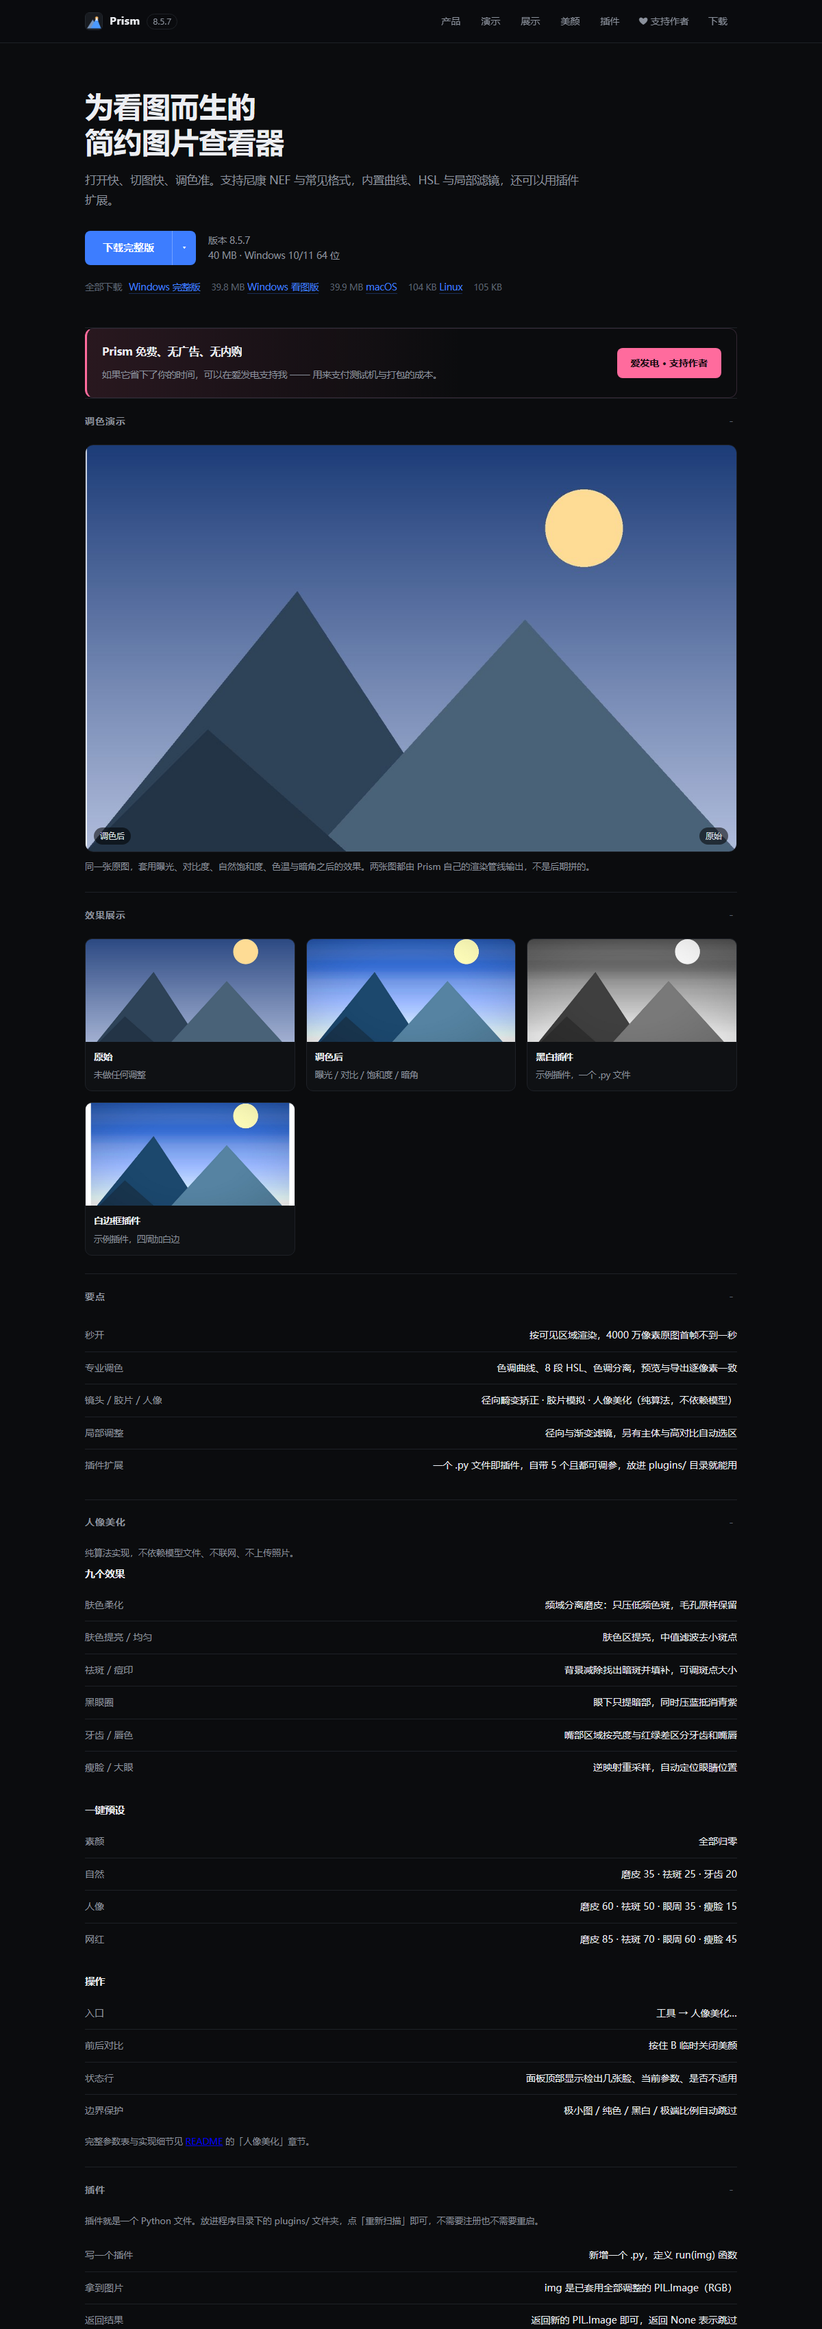
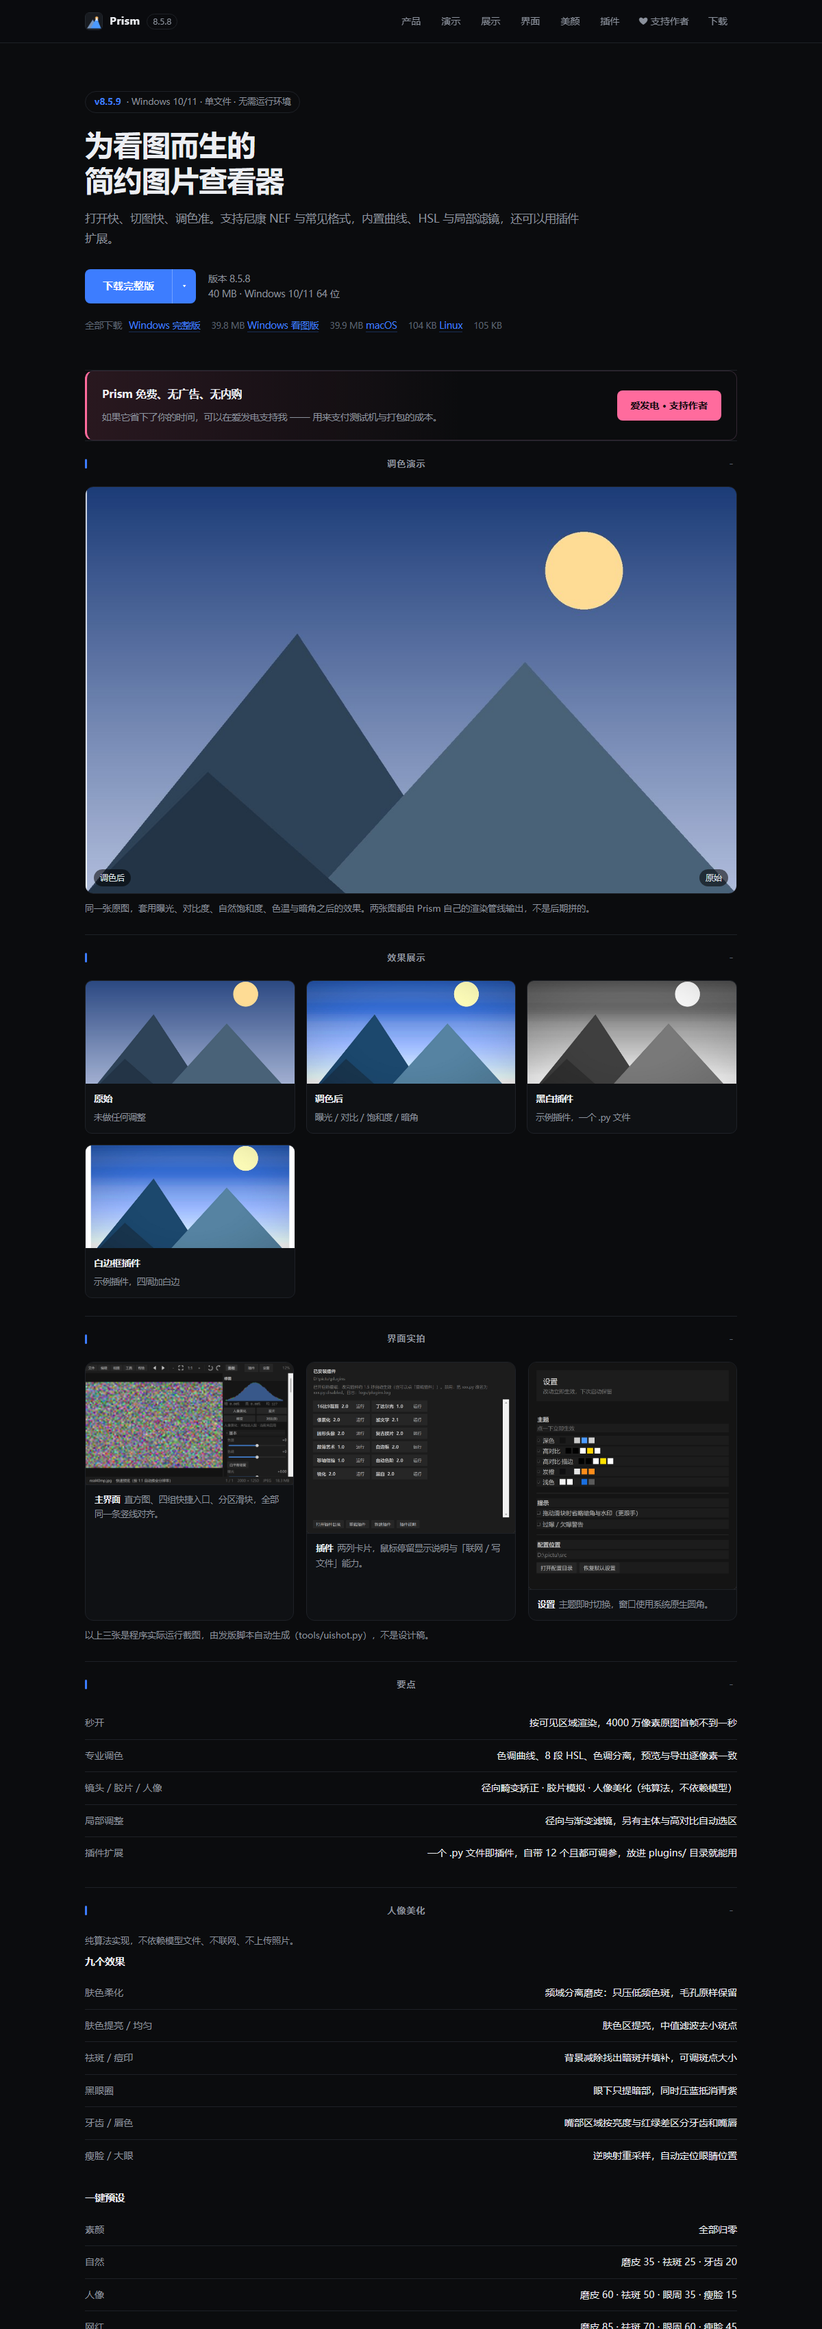
release 8.5.9: 网页层次+界面实拍区块; 外观差异留档 uishot-log.md

diff --git a/docs/index.html b/docs/index.html
@@ -36,15 +36,22 @@
   .sub2 .lvl3{position:absolute;left:100%;top:-6px;min-width:170px;background:#0f1114;border:1px solid var(--line);border-radius:10px;padding:6px;opacity:0;visibility:hidden;transition:.14s}
   .sub2:hover .lvl3{opacity:1;visibility:visible}
   /* ---------- 首屏 ---------- */
-  header{padding:66px 0 46px}
+  .eyebrow{display:inline-flex;align-items:center;gap:8px;border:1px solid var(--line);
+    border-radius:20px;padding:4px 13px;font-size:12.5px;color:var(--dim);margin-bottom:20px;
+    letter-spacing:.2px}
+  .eyebrow b{color:var(--accent);font-weight:600}
+  header{padding:70px 0 52px}
   h1{font-size:42px;line-height:1.24;font-weight:600;letter-spacing:-.5px}
   .lead{color:var(--dim);font-size:16.5px;margin-top:16px;max-width:44em}
   .cta{margin-top:30px;display:flex;align-items:center;gap:18px;flex-wrap:wrap}
   .btn{display:inline-block;background:var(--accent);color:#fff;text-decoration:none;font-weight:600;font-size:15px;padding:12px 26px;border-radius:8px}
   .btn:hover{background:#558cff}
   .meta{color:var(--dim);font-size:13.5px;line-height:1.6}
-  section{padding:46px 0;border-top:1px solid var(--line)}
-  h2{font-size:14px;font-weight:600;letter-spacing:.9px;color:var(--dim);text-transform:uppercase;margin-bottom:24px}
+  section{padding:58px 0;border-top:1px solid var(--line)}
+  section>*{max-width:100%}
+  /* 章节标题：左侧强调条（用 border 而不是 flex，避免标题被居中） */
+  h2{border-left:3px solid var(--accent);padding-left:11px;line-height:1.15}
+  h2{font-size:13px;font-weight:600;letter-spacing:1.1px;color:var(--dim);text-transform:uppercase;margin-bottom:26px}
   /* ---------- 动态演示：自动前后对比 ---------- */
   .demo{position:relative;border:1px solid var(--line);border-radius:12px;overflow:hidden;background:#000;aspect-ratio:8/5}
   .demo img{position:absolute;inset:0;width:100%;height:100%;object-fit:cover}
@@ -69,6 +76,12 @@
   tr:last-child td{border:0}
   td:last-child{color:var(--fg);text-align:right}
   code{font-family:Consolas,"SF Mono",monospace;font-size:12.5px;color:var(--code);word-break:break-all}
+  /* ---------- 界面实拍 ---------- */
+  .ui{display:grid;grid-template-columns:repeat(auto-fit,minmax(280px,1fr));gap:18px}
+  .ui figure{border:1px solid var(--line);border-radius:12px;overflow:hidden;background:#0f1114}
+  .ui img{display:block;width:100%;height:auto}
+  .ui figcaption{padding:11px 13px;font-size:12.5px;color:var(--dim);border-top:1px solid var(--line)}
+  .ui figcaption b{color:var(--fg);font-weight:600;margin-right:6px}
   /* ---------- 支持作者 ---------- */
   .support{padding:34px 0;border-top:1px solid var(--line)}
   .sup-card{display:flex;align-items:center;gap:22px;flex-wrap:wrap;justify-content:space-between;
@@ -156,7 +169,7 @@
 </head>
 <body>
 <div class="top"><div class="topin">
-  <a class="brand" href="./"><img src="Prism.png" alt=""><b>Prism</b><i>8.5.8</i></a>
+  <a class="brand" href="./"><img src="Prism.png" alt=""><b>Prism</b><i>8.5.9</i></a>
   <nav class="menu">
     <div class="mi"><a href="#features">产品</a>
       <div class="sub">
@@ -177,6 +190,7 @@
     </div>
     <div class="mi"><a href="#demo">演示</a></div>
     <div class="mi"><a href="#gallery">展示</a></div>
+    <div class="mi"><a href="#ui">界面</a></div>
     <div class="mi"><a href="#beauty">美颜</a></div>
     <div class="mi"><a href="#plugins">插件</a>
       <div class="sub">
@@ -189,11 +203,11 @@
     <div class="mi"><a href="#download">下载</a>
       <div class="sub">
         <span class="gh">Windows</span>
-        <a href="https://github.com/11ly322/Prism/releases/download/v8.5.8/Prism-Setup-8.5.8.exe" download><span style="display:inline-block;margin-left:6px;padding:1px 6px;border-radius:6px;font-size:11px;background:#2f7d32;color:#fff">完整支持</span>完整版 <i>39.9 MB</i></a>
-        <a href="https://github.com/11ly322/Prism/releases/download/v8.5.8/Prism-Viewer-Setup-8.5.8.exe" download>看图版（安装包） <i>39.9 MB</i></a>
+        <a href="https://github.com/11ly322/Prism/releases/download/v8.5.9/Prism-Setup-8.5.9.exe" download><span style="display:inline-block;margin-left:6px;padding:1px 6px;border-radius:6px;font-size:11px;background:#2f7d32;color:#fff">完整支持</span>完整版 <i>39.9 MB</i></a>
+        <a href="https://github.com/11ly322/Prism/releases/download/v8.5.9/Prism-Viewer-Setup-8.5.9.exe" download>看图版（安装包） <i>39.9 MB</i></a>
         <span class="gh">其它平台</span>
-        <a href="https://github.com/11ly322/Prism/releases/download/v8.5.8/Prism-macOS-8.5.8.zip" download><span style="display:inline-block;margin-left:6px;padding:1px 6px;border-radius:6px;font-size:11px;background:#8a6d1f;color:#fff">源码预览</span>macOS <i>源码运行</i></a>
-        <a href="https://github.com/11ly322/Prism/releases/download/v8.5.8/Prism-Linux-8.5.8.zip" download><span style="display:inline-block;margin-left:6px;padding:1px 6px;border-radius:6px;font-size:11px;background:#8a6d1f;color:#fff">源码预览</span>Linux <i>源码运行</i></a>
+        <a href="https://github.com/11ly322/Prism/releases/download/v8.5.9/Prism-macOS-8.5.9.zip" download><span style="display:inline-block;margin-left:6px;padding:1px 6px;border-radius:6px;font-size:11px;background:#8a6d1f;color:#fff">源码预览</span>macOS <i>源码运行</i></a>
+        <a href="https://github.com/11ly322/Prism/releases/download/v8.5.9/Prism-Linux-8.5.9.zip" download><span style="display:inline-block;margin-left:6px;padding:1px 6px;border-radius:6px;font-size:11px;background:#8a6d1f;color:#fff">源码预览</span>Linux <i>源码运行</i></a>
         <span class="sp"></span>
         <a href="#docs">说明文档</a>
         <a href="#verify">证书与校验</a>
@@ -204,26 +218,27 @@
 
 <div class="wrap">
   <header>
+    <div class="eyebrow">Windows 10/11 · 单文件 · 无需运行环境 · 支持 NEF</div>
     <h1>为看图而生的<br>简约图片查看器</h1>
     <p class="lead">打开快、切图快、调色准。支持尼康 NEF 与常见格式，内置曲线、HSL 与局部滤镜，还可以用插件扩展。</p>
     <div class="cta">
       <div class="spl">
-        <a class="btn" href="https://github.com/11ly322/Prism/releases/download/v8.5.8/Prism-Setup-8.5.8.exe" download>下载完整版</a>
+        <a class="btn" href="https://github.com/11ly322/Prism/releases/download/v8.5.9/Prism-Setup-8.5.9.exe" download>下载完整版</a>
         <button class="caret" aria-label="更多版本">▾</button>
         <div class="opts">
-          <a href="https://github.com/11ly322/Prism/releases/download/v8.5.8/Prism-Setup-8.5.8.exe" download><i>40.0 MB</i><b>Windows 完整版</b><span>安装包 · 含修图与插件</span></a>
-          <a href="https://github.com/11ly322/Prism/releases/download/v8.5.8/Prism-Viewer-Setup-8.5.8.exe" download><i>39.9 MB</i><b>Windows 看图版</b><span>安装包 · 纯浏览，与完整版同样装法</span></a>
-          <a href="https://github.com/11ly322/Prism/releases/download/v8.5.8/Prism-macOS-8.5.8.zip" download><i>149 KB</i><b>macOS</b><span>源码运行 · 需 Python 3</span></a>
-          <a href="https://github.com/11ly322/Prism/releases/download/v8.5.8/Prism-Linux-8.5.8.zip" download><i>149 KB</i><b>Linux</b><span>源码运行 · 带桌面项</span></a>
+          <a href="https://github.com/11ly322/Prism/releases/download/v8.5.9/Prism-Setup-8.5.9.exe" download><i>40.0 MB</i><b>Windows 完整版</b><span>安装包 · 含修图与插件</span></a>
+          <a href="https://github.com/11ly322/Prism/releases/download/v8.5.9/Prism-Viewer-Setup-8.5.9.exe" download><i>39.9 MB</i><b>Windows 看图版</b><span>安装包 · 纯浏览，与完整版同样装法</span></a>
+          <a href="https://github.com/11ly322/Prism/releases/download/v8.5.9/Prism-macOS-8.5.9.zip" download><i>149 KB</i><b>macOS</b><span>源码运行 · 需 Python 3</span></a>
+          <a href="https://github.com/11ly322/Prism/releases/download/v8.5.9/Prism-Linux-8.5.9.zip" download><i>149 KB</i><b>Linux</b><span>源码运行 · 带桌面项</span></a>
         </div>
       </div>
-      <div class="meta">版本 8.5.8<br>40 MB · Windows 10/11 64 位</div>
+      <div class="meta">版本 8.5.9<br>40 MB · Windows 10/11 64 位</div>
     </div>
     <p class="plats"><b>全部下载</b>
-      <a href="https://github.com/11ly322/Prism/releases/download/v8.5.8/Prism-Setup-8.5.8.exe" download>Windows 完整版</a><em>39.8 MB</em>
-      <a href="https://github.com/11ly322/Prism/releases/download/v8.5.8/Prism-Viewer-Setup-8.5.8.exe" download>Windows 看图版</a><em>39.9 MB</em>
-      <a href="https://github.com/11ly322/Prism/releases/download/v8.5.8/Prism-macOS-8.5.8.zip" download>macOS</a><em>104 KB</em>
-      <a href="https://github.com/11ly322/Prism/releases/download/v8.5.8/Prism-Linux-8.5.8.zip" download>Linux</a><em>105 KB</em>
+      <a href="https://github.com/11ly322/Prism/releases/download/v8.5.9/Prism-Setup-8.5.9.exe" download>Windows 完整版</a><em>39.8 MB</em>
+      <a href="https://github.com/11ly322/Prism/releases/download/v8.5.9/Prism-Viewer-Setup-8.5.9.exe" download>Windows 看图版</a><em>39.9 MB</em>
+      <a href="https://github.com/11ly322/Prism/releases/download/v8.5.9/Prism-macOS-8.5.9.zip" download>macOS</a><em>104 KB</em>
+      <a href="https://github.com/11ly322/Prism/releases/download/v8.5.9/Prism-Linux-8.5.9.zip" download>Linux</a><em>105 KB</em>
     </p>
   </header>
 
@@ -257,6 +272,25 @@
       <div class="card"><img src="shots/shot-mono.jpg" alt=""><div><b>黑白插件</b><span>示例插件，一个 .py 文件</span></div></div>
       <div class="card"><img src="shots/shot-frame.jpg" alt=""><div><b>白边框插件</b><span>示例插件，四周加白边</span></div></div>
     </div>
+  </section>
+
+  <section id="ui">
+    <h2>界面实拍</h2>
+    <div class="ui">
+      <figure>
+        <img src="shots/ui-main.png" alt="主界面" loading="lazy">
+        <figcaption><b>主界面</b>直方图、四组快捷入口、分区滑块，全部同一条竖线对齐。</figcaption>
+      </figure>
+      <figure>
+        <img src="shots/ui-plugins.png" alt="插件窗口" loading="lazy">
+        <figcaption><b>插件</b>两列卡片，鼠标停留显示说明与「联网 / 写文件」能力。</figcaption>
+      </figure>
+      <figure>
+        <img src="shots/ui-settings.png" alt="设置窗口" loading="lazy">
+        <figcaption><b>设置</b>主题即时切换，窗口使用系统原生圆角。</figcaption>
+      </figure>
+    </div>
+    <p class="cap">以上三张是程序实际运行截图，由发版脚本自动生成（tools/uishot.py），不是设计稿。</p>
   </section>
 
   <section id="features">
@@ -317,7 +351,7 @@
     <h3>安装</h3>
     <table>
       <tr><td class="grp" colspan="2">Windows</td></tr>
-      <tr><td>1</td><td>下载 <code>Prism-Setup-8.5.8.exe</code> 并双击</td></tr>
+      <tr><td>1</td><td>下载 <code>Prism-Setup-8.5.9.exe</code> 并双击</td></tr>
       <tr><td>2</td><td>选择安装方式（本机安装 / 就地解压）与位置</td></tr>
       <tr><td>3</td><td>可选建开始菜单与桌面快捷方式，完成后直接启动</td></tr>
       <tr><td class="grp" colspan="2">macOS</td></tr>
@@ -380,16 +414,16 @@
     <h2>下载与安装</h2>
     <table>
       <tr><td class="grp" colspan="2">Windows</td></tr>
-      <tr><td><a href="https://github.com/11ly322/Prism/releases/download/v8.5.8/Prism-Setup-8.5.8.exe" download>完整版安装包</a></td>
+      <tr><td><a href="https://github.com/11ly322/Prism/releases/download/v8.5.9/Prism-Setup-8.5.9.exe" download>完整版安装包</a></td>
           <td>39.8 MB · 含修图面板与插件</td></tr>
-      <tr><td><a href="https://github.com/11ly322/Prism/releases/download/v8.5.8/Prism-Viewer-Setup-8.5.8.exe" download>纯看图版（安装包）</a></td>
+      <tr><td><a href="https://github.com/11ly322/Prism/releases/download/v8.5.9/Prism-Viewer-Setup-8.5.9.exe" download>纯看图版（安装包）</a></td>
           <td>39.9 MB · 与完整版同样装法，含开始菜单与桌面快捷方式</td></tr>
-      <tr><td><a href="https://github.com/11ly322/Prism/releases/download/v8.5.8/Prism-Viewer-8.5.8.zip" download>纯看图版（便携）</a></td>
+      <tr><td><a href="https://github.com/11ly322/Prism/releases/download/v8.5.9/Prism-Viewer-8.5.9.zip" download>纯看图版（便携）</a></td>
           <td>29.9 MB · 解压即用，不写注册表</td></tr>
       <tr><td class="grp" colspan="2">macOS / Linux</td></tr>
-      <tr><td><a href="https://github.com/11ly322/Prism/releases/download/v8.5.8/Prism-macOS-8.5.8.zip" download>macOS 运行包</a></td>
+      <tr><td><a href="https://github.com/11ly322/Prism/releases/download/v8.5.9/Prism-macOS-8.5.9.zip" download>macOS 运行包</a></td>
           <td>104 KB · 源码运行，需 Python 3 + Pillow</td></tr>
-      <tr><td><a href="https://github.com/11ly322/Prism/releases/download/v8.5.8/Prism-Linux-8.5.8.zip" download>Linux 运行包</a></td>
+      <tr><td><a href="https://github.com/11ly322/Prism/releases/download/v8.5.9/Prism-Linux-8.5.9.zip" download>Linux 运行包</a></td>
           <td>105 KB · 带 .desktop，需 python3-tk</td></tr>
       <tr><td class="grp" colspan="2">系统要求（Windows 版）</td></tr>
       <tr><td>操作系统</td><td>Windows 10 / 11（64 位）</td></tr>
@@ -406,11 +440,11 @@
       <p class="cap" style="margin:0">2. 全屏为兼容模式（无边框最大化 + Esc 退出），不是系统级全屏。</p>
       <p class="cap" style="margin:0">3. macOS 与 Linux 是源码预览包，没有编译好的 .app / AppImage。</p>
     </div>
-    <p class="cap" style="margin-top:10px"><strong>便携版</strong>：<a href="https://github.com/11ly322/Prism/releases/download/v8.5.8/Prism-Portable-8.5.8.zip">Prism-Portable-8.5.8.zip</a>（完整版解压即用，不写注册表、不装开始菜单）</p>
+    <p class="cap" style="margin-top:10px"><strong>便携版</strong>：<a href="https://github.com/11ly322/Prism/releases/download/v8.5.9/Prism-Portable-8.5.9.zip">Prism-Portable-8.5.9.zip</a>（完整版解压即用，不写注册表、不装开始菜单）</p>
     <h3>如何安全绕过 SmartScreen</h3>
     <p class="cap" style="margin-top:0">安装包未做代码签名，所以 Windows 会提示「已保护你的电脑」。先校验文件，再决定是否运行：</p>
     <ol class="cap" style="margin:0 0 10px 18px;padding:0">
-      <li>在 PowerShell 里校验 SHA-256：<br><code>Get-FileHash .\Prism-Setup-8.5.8.exe -Algorithm SHA256</code><br>与页面上的 SHA-256 逐位比对。</li>
+      <li>在 PowerShell 里校验 SHA-256：<br><code>Get-FileHash .\Prism-Setup-8.5.9.exe -Algorithm SHA256</code><br>与页面上的 SHA-256 逐位比对。</li>
       <li>一致 → 双击安装包，点弹窗里的「更多信息」。</li>
       <li>确认发布者是「未知发布者」且哈希已核对无误后，点「仍要运行」。</li>
       <li>校验不一致 → 立刻删除，重新下载。</li>
@@ -426,14 +460,14 @@
       <tr><td>签发机构</td><td>Let&#39;s Encrypt（由 GitHub Pages 自动签发与续期）</td></tr>
       <tr><td>有效期至</td><td>2026-12-30</td></tr>
       <tr><td class="grp" colspan="2">安装包校验</td></tr>
-      <tr><td>文件</td><td>Prism-Setup-8.5.8.exe</td></tr>
-      <tr><td>SHA-256</td><td><code>6FD0AABBDE9AC422F98AA5E86D3CD889E9E36D9B92930D4AA769199D3F755A8E</code></td></tr>
+      <tr><td>文件</td><td>Prism-Setup-8.5.9.exe</td></tr>
+      <tr><td>SHA-256</td><td><code>6B6D3EF3B809602811222C22757B37239887B93AC86381FB69C7BA336D1433F6</code></td></tr>
     </table>
     <p class="cap">下载后可用 <code>certutil -hashfile 文件名 SHA256</code>（Windows）或 <code>shasum -a 256 文件名</code>（macOS/Linux）比对。</p>
   </section>
 
   <footer>
-    <div>Prism 8.5.8 · 简约图片查看器 · <a href="https://github.com/11ly322/Prism/blob/main/CHANGELOG.md" style="color:inherit;text-decoration:underline">完整更新日志</a> · <a href="https://afdian.com/a/pis01" target="_blank" rel="noopener">爱发电</a></div>
+    <div>Prism 8.5.9 · 简约图片查看器 · <a href="https://github.com/11ly322/Prism/blob/main/CHANGELOG.md" style="color:inherit;text-decoration:underline">完整更新日志</a> · <a href="https://afdian.com/a/pis01" target="_blank" rel="noopener">爱发电</a></div>
     <div><a href="#docs">说明文档</a></div>
   </footer>
 </div>

diff --git a/tools/uishot.py b/tools/uishot.py
@@ -123,12 +123,42 @@ def main():
         print("   设置窗口截图失败：%s" % exc)
 
     worst = 0.0
+    ratios = {}
     for name, shot in shots.items():
         shot.save(os.path.join(OUT, name + ".png"))
         r = compare(name, shot)
+        ratios[name] = r
         if r:
             worst = max(worst, r)
     print("   截图输出 -> %s" % OUT)
+
+    # ---- 把本次差异写进留档（只在本机比对，历史需要可追溯）----
+    try:
+        import datetime
+        import re
+        ver = "?"
+        with open(APP, encoding="utf-8") as fh:
+            m = re.search(r'APP_VERSION = "([^"]+)"', fh.read())
+            if m:
+                ver = m.group(1)
+        log = os.path.join(ROOT, "design", "uishot-log.md")
+        new_file = not os.path.exists(log)
+        NL = chr(10)
+        with open(log, "a", encoding="utf-8") as fh:
+            if new_file:
+                fh.write("# 外观基线差异留档" + NL + NL)
+                fh.write("每次发版自动追加。阈值 2%，超过会打印提醒。" + NL + NL)
+                fh.write("| 日期 | 版本 | main | plugins | settings |" + NL)
+                fh.write("| :--- | :--- | ---: | ---: | ---: |" + NL)
+            cells = []
+            for k in ("main", "plugins", "settings"):
+                v = ratios.get(k)
+                cells.append("—" if v is None else "%.2f%%" % (v * 100.0))
+            fh.write("| %s | %s | %s |" % (datetime.date.today().isoformat(),
+                                              ver, " | ".join(cells)) + NL)
+        print("   差异已记入 design/uishot-log.md（版本 %s）" % ver)
+    except Exception as exc:
+        print("   留档失败：%s" % exc)
     app.on_close()
     if os.path.exists(settings):
         os.remove(settings)

diff --git a/CHANGELOG.md b/CHANGELOG.md
@@ -4,6 +4,21 @@
 > 已一并改为 Prism，功能与时间线不变。代码里的 QPEApp / _QpeSlider 等内部
 > 标识符与旧配置迁移路径保持原名，改动会破坏兼容。
 
+## v8.5.9  （网页层次 + 界面实拍 + 差异留档）
+
+- **网页排版层次**：章节标题加左侧蓝色强调条并统一左对齐（之前纯灰小字、
+  扫读困难）；章节间距 46px -> 58px；首屏加一枚信息胶囊
+  「Windows 10/11 · 单文件 · 无需运行环境 · 支持 NEF」。
+- **新增「界面实拍」区块**：把 `design/after/` 里由发版脚本自动生成的三张
+  真实运行截图（主界面 / 插件 / 设置）搬进网页，替换掉只有合成示意图的局面；
+  caption 明确写「由 tools/uishot.py 自动生成，不是设计稿」。
+- **外观差异留档**：`tools/uishot.py` 每次运行把三个窗口与基线的差异百分比
+  追加到 `design/uishot-log.md`，按版本与日期成表，便于回溯「哪一版动了外观」。
+  本次记录：main 0.02% / plugins 0.00% / settings 0.16%。
+- **爱发电支持数**：查询了 `afdian.com/api/open/query-sponsor`，返回
+  `{"ec":400001,"em":"params incomplete","data":{"explain":"user_id is not set"}}`
+  —— 需要 user_id 与 token，无法匿名取数。按约定**不加假数据**，保持文字说明。
+
 ## v8.5.8  （网页改版 + 爱发电 + 多窗口基线比对）
 
 - **网页放上爱发电**：https://afdian.com/a/pis01

diff --git a/docs/CHANGELOG.md b/docs/CHANGELOG.md
@@ -4,6 +4,21 @@
 > 已一并改为 Prism，功能与时间线不变。代码里的 QPEApp / _QpeSlider 等内部
 > 标识符与旧配置迁移路径保持原名，改动会破坏兼容。
 
+## v8.5.9  （网页层次 + 界面实拍 + 差异留档）
+
+- **网页排版层次**：章节标题加左侧蓝色强调条并统一左对齐（之前纯灰小字、
+  扫读困难）；章节间距 46px -> 58px；首屏加一枚信息胶囊
+  「Windows 10/11 · 单文件 · 无需运行环境 · 支持 NEF」。
+- **新增「界面实拍」区块**：把 `design/after/` 里由发版脚本自动生成的三张
+  真实运行截图（主界面 / 插件 / 设置）搬进网页，替换掉只有合成示意图的局面；
+  caption 明确写「由 tools/uishot.py 自动生成，不是设计稿」。
+- **外观差异留档**：`tools/uishot.py` 每次运行把三个窗口与基线的差异百分比
+  追加到 `design/uishot-log.md`，按版本与日期成表，便于回溯「哪一版动了外观」。
+  本次记录：main 0.02% / plugins 0.00% / settings 0.16%。
+- **爱发电支持数**：查询了 `afdian.com/api/open/query-sponsor`，返回
+  `{"ec":400001,"em":"params incomplete","data":{"explain":"user_id is not set"}}`
+  —— 需要 user_id 与 token，无法匿名取数。按约定**不加假数据**，保持文字说明。
+
 ## v8.5.8  （网页改版 + 爱发电 + 多窗口基线比对）
 
 - **网页放上爱发电**：https://afdian.com/a/pis01

diff --git a/design/uishot-log.md b/design/uishot-log.md
@@ -1,0 +1,8 @@
+# 外观基线差异留档
+
+每次发版自动追加。阈值 2%，超过会打印提醒。
+
+| 日期 | 版本 | main | plugins | settings |
+| :--- | :--- | ---: | ---: | ---: |
+| 2026-10-19 | 8.5.8 | 0.02% | 0.00% | 0.16% |
+| 2026-10-19 | 8.5.9 | 0.02% | 0.00% | 0.15% |
